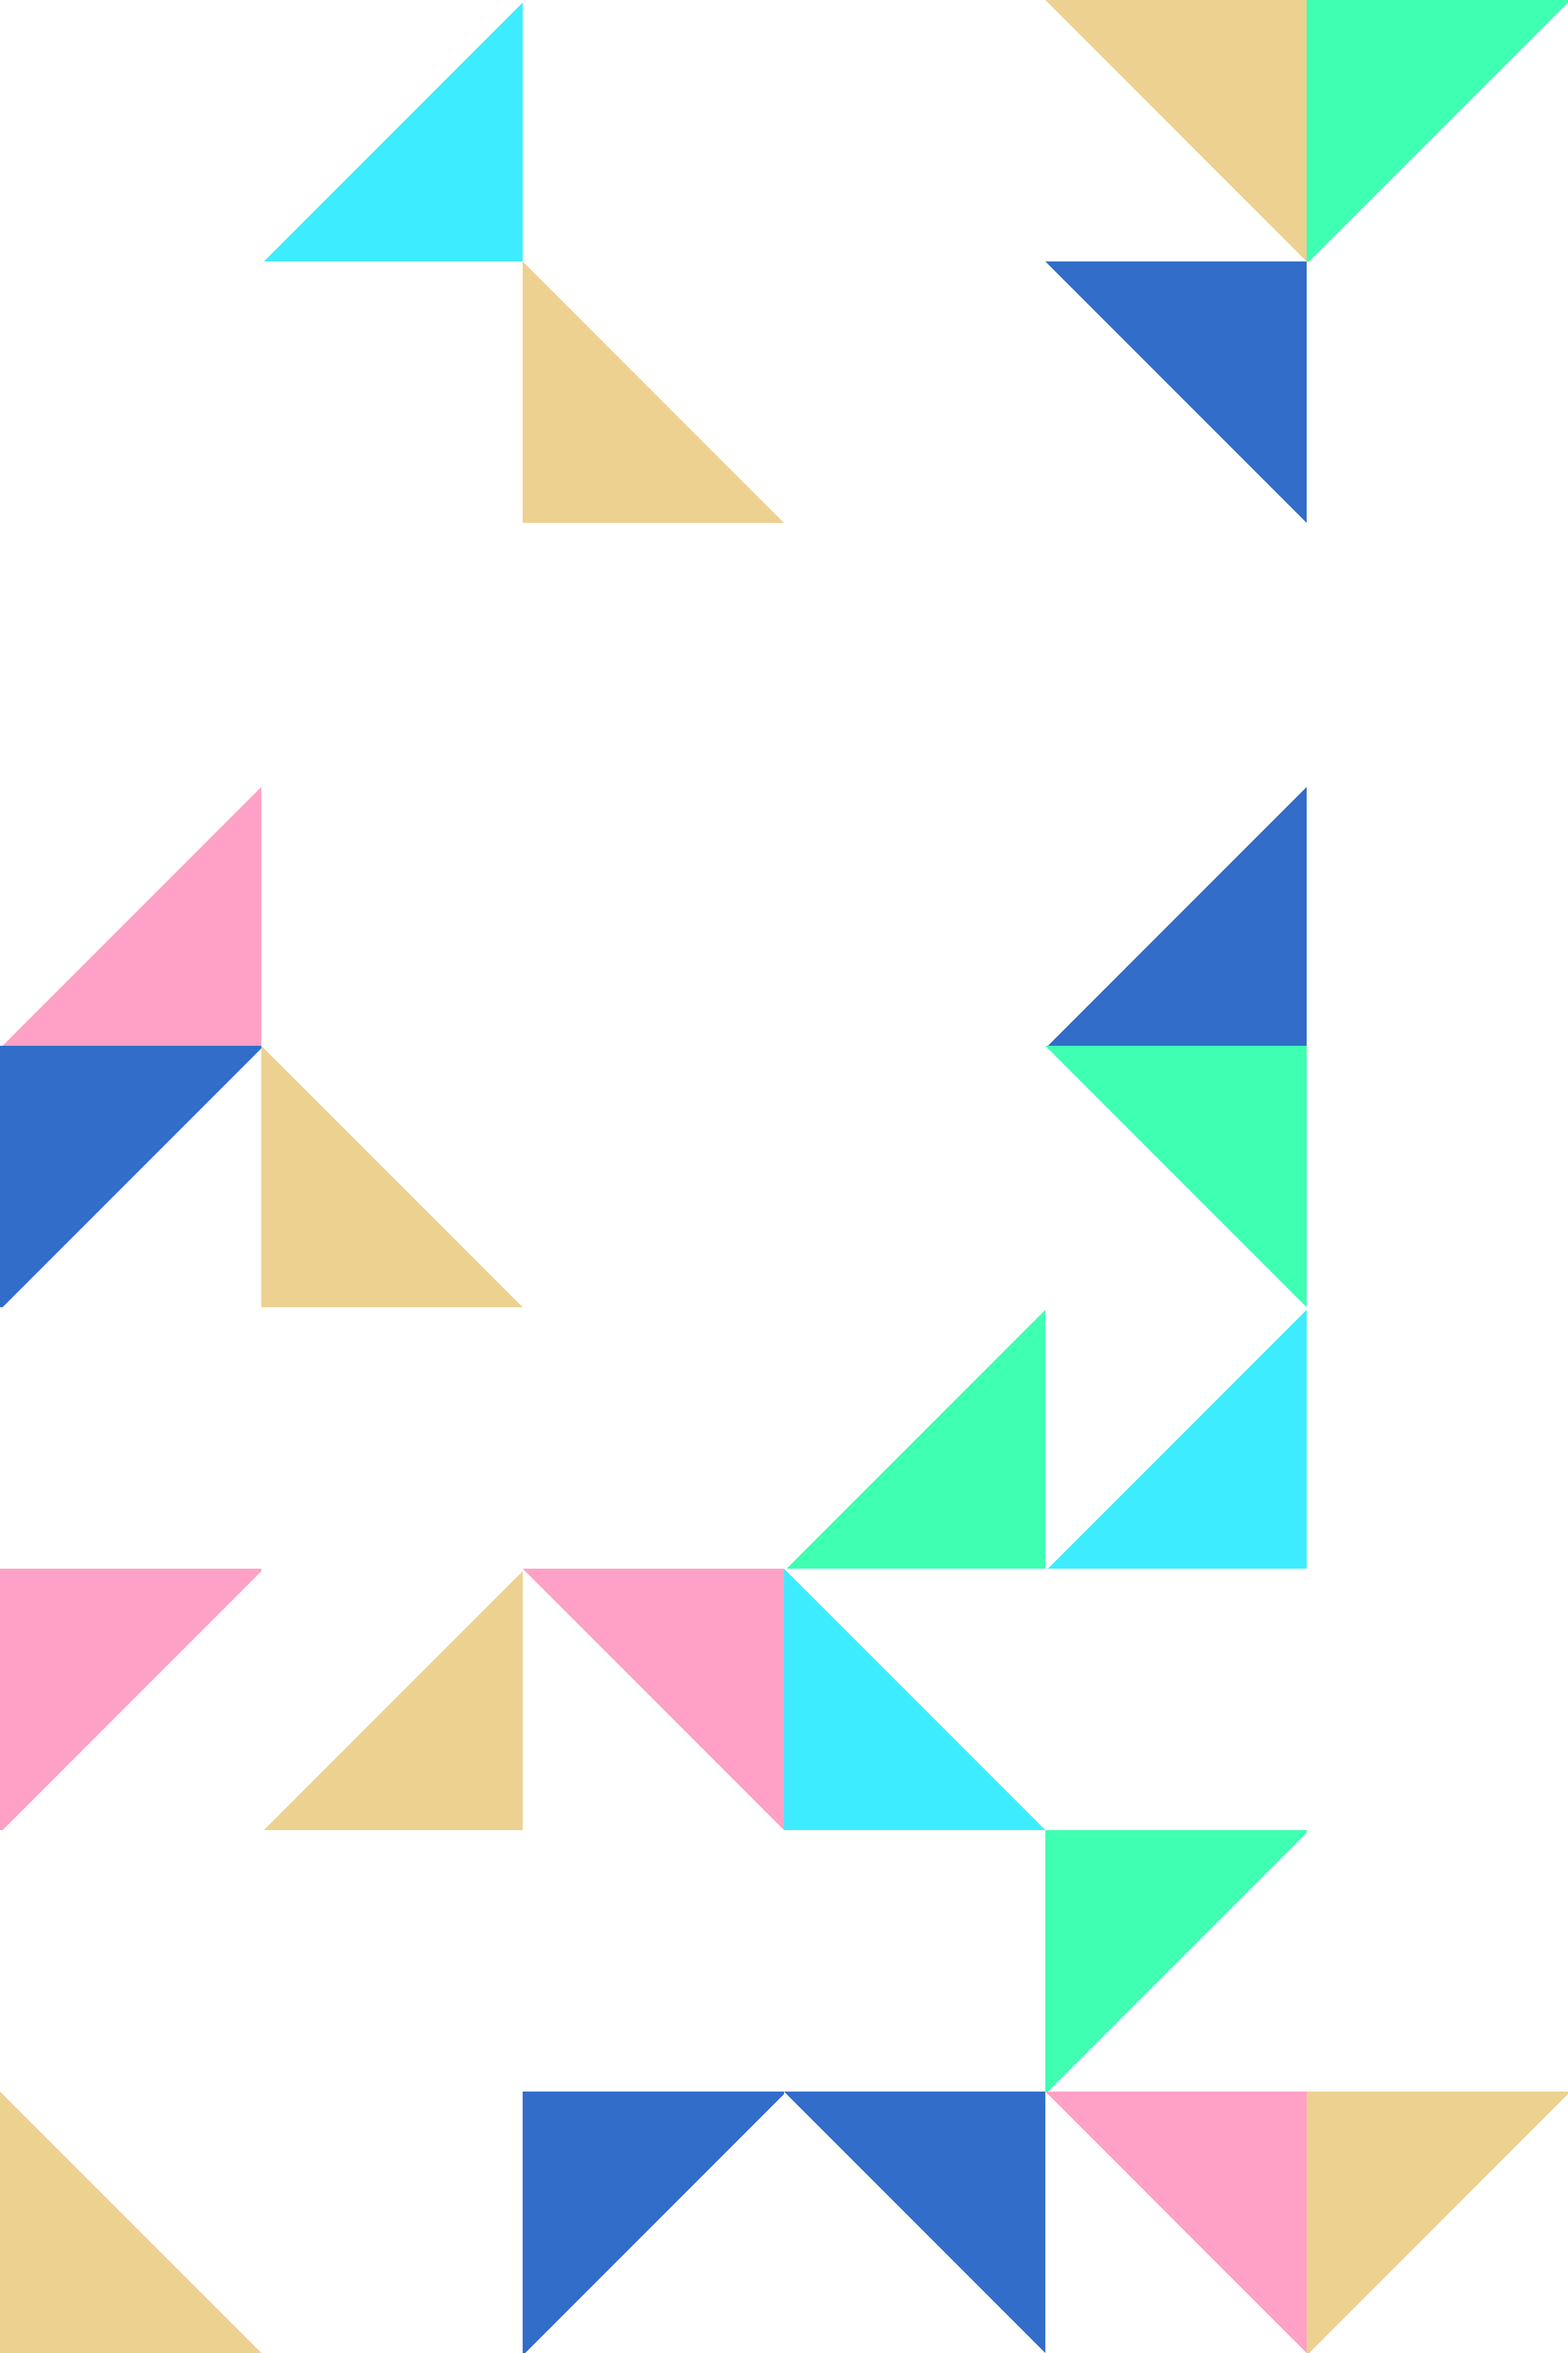
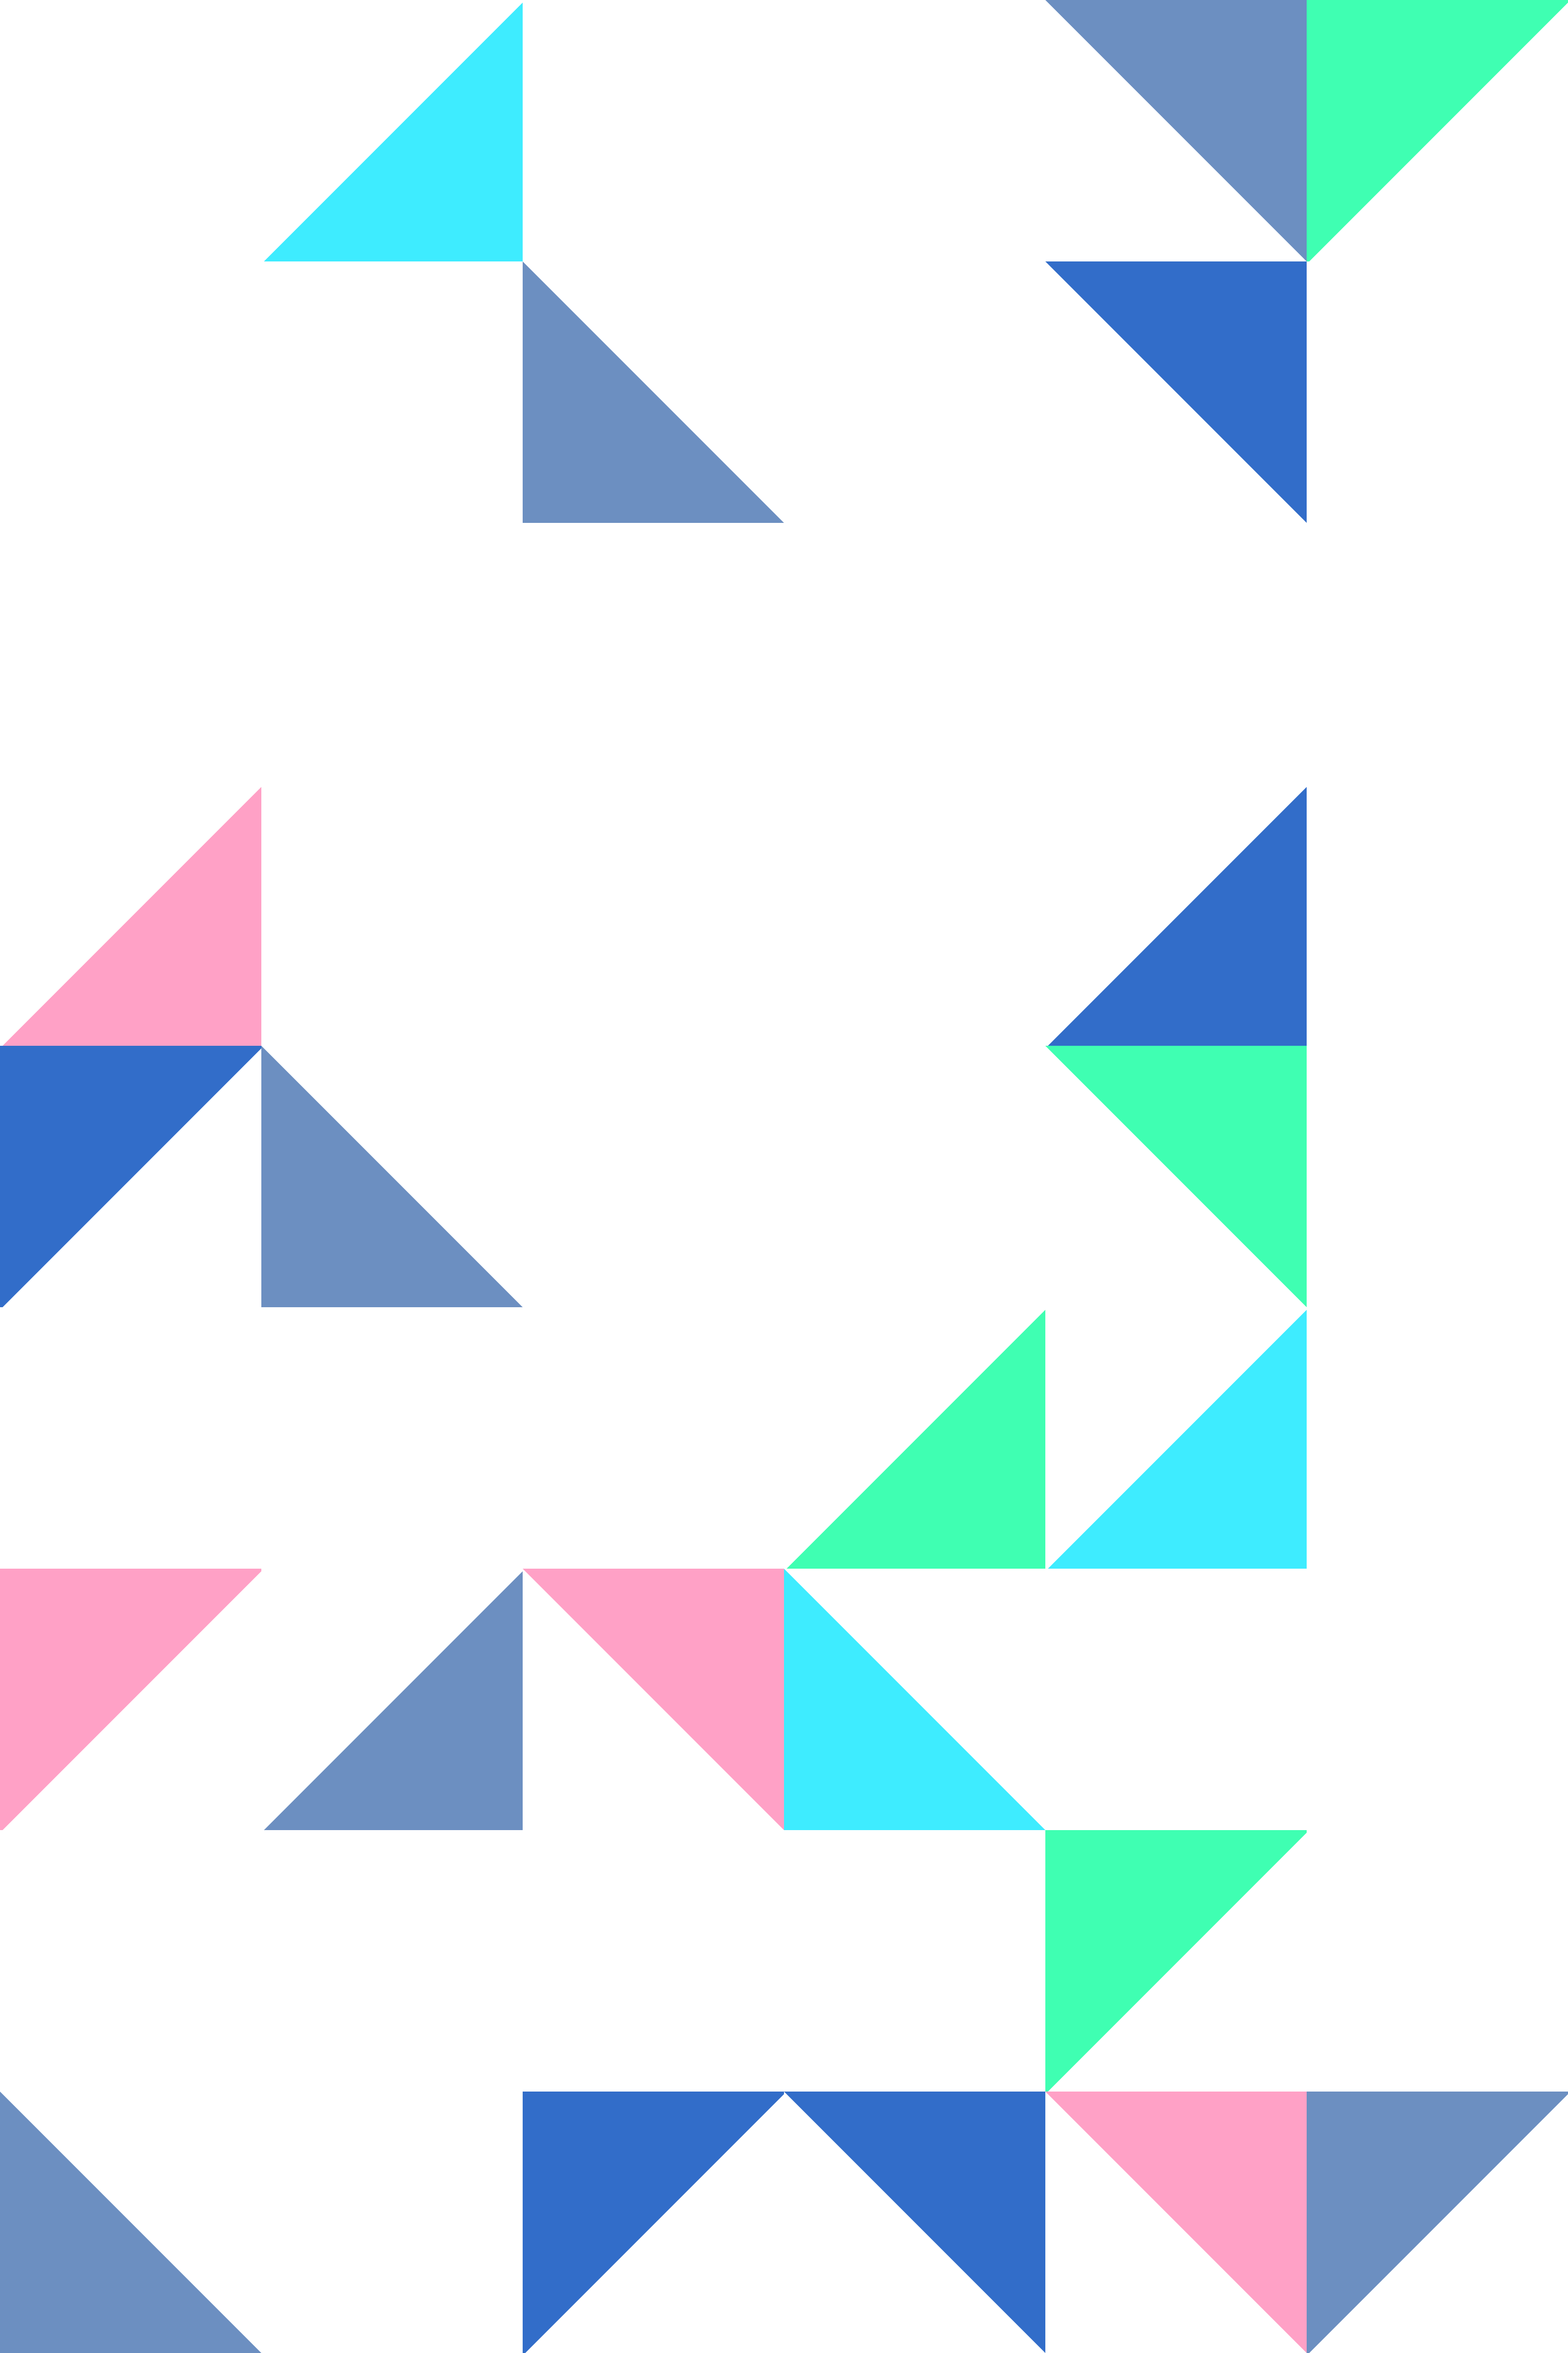
Update theme

diff --git a/style.css b/style.css
@@ -5,22 +5,25 @@
     --primary: #e1e1e1;
     --secondary: #555555;
     --accent: lightblue;
-    --project-background: rgba(255, 255, 255, 0.1);
-    --footer-background: rgba(255, 255, 255, 0.3);
+    --light-background: rgba(255, 255, 255, 0.1);
+    --dark-background: rgba(255, 255, 255, 0.3);
     --shadow: rgba(0, 0, 0, 0.2);
+}
 
-    /*--primary: #162447;*/
-    /*--secondary: #DBCBBD;*/
-    /*--accent: #1414a4;*/
-    /*--light-background: rgba(0, 0, 0, 0.1);*/
-    /*--dark-background: rgba(0, 0, 0, 0.3);*/
-    /*--shadow: rgba(255, 255, 255, 0.2);*/
+.dark-theme {
+    --primary: #162447;
+    --secondary: #DBCBBD;
+    --accent: #1414a4;
+    --light-background: rgba(0, 0, 0, 0.1);
+    --dark-background: rgba(0, 0, 0, 0.3);
+    --shadow: rgba(255, 255, 255, 0.2);
 }
 
 * {
     margin: 0;
     padding: 0;
     box-sizing: border-box;
+    transition: 500ms ease-in-out;
 }
 
 body {

diff --git a/src/service/ThemeSwitcherService.ts b/src/service/ThemeSwitcherService.ts
@@ -1,0 +1,37 @@
+import {createSignal} from "solid-js";
+
+enum Theme {
+    LIGHT,
+    DARK
+}
+
+const [theme, setTheme] = createSignal<Theme>(Theme.LIGHT);
+const bodyClassList = document.body.classList;
+const darkThemeClass = 'dark-theme';
+
+function setLightTheme() {
+    if (bodyClassList.contains(darkThemeClass)) {
+        bodyClassList.remove(darkThemeClass)
+    }
+}
+
+function setDarkTheme() {
+    bodyClassList.add(darkThemeClass);
+}
+
+function changeAppTheme() {
+    setTheme((value) => {
+        switch (value) {
+            case Theme.LIGHT: {
+                setDarkTheme()
+                return Theme.DARK;
+            }
+            case Theme.DARK: {
+                setLightTheme();
+                return Theme.LIGHT;
+            }
+        }
+    })
+}
+
+export {changeAppTheme};

diff --git a/src/components/theme-switcher/ThemeSwitcher.tsx b/src/components/theme-switcher/ThemeSwitcher.tsx
@@ -1,12 +1,13 @@
 import "./ThemeSwitcher.scss";
 import {createSignal} from "solid-js";
+import {changeAppTheme} from "../../service/ThemeSwitcherService";
 
 export default function ThemeSwitcher() {
     const [angle, setAngle] = createSignal<number>(0);
 
     function changeTheme() {
         setAngle((value) => (value + 0.18));
-        console.log(angle());
+        changeAppTheme();
     }
 
     return (

diff --git a/src/components/theme-switcher/ThemeSwitcher.scss b/src/components/theme-switcher/ThemeSwitcher.scss
@@ -6,6 +6,10 @@
   top: clamp(-4rem, -5vw, -2rem);
   border-radius: 50%;
   transition: 1s ease-in-out;
+  background: var(--dark-background);
+  box-shadow: var(--shadow);
+  backdrop-filter: blur(15px);
+  border: 2px dashed var(--accent);
 
   .theme {
     font-size: clamp(1.5rem, 3vw, 4rem);

diff --git a/src/pages/home/Home.scss b/src/pages/home/Home.scss
@@ -3,6 +3,6 @@
   display: flex;
   flex-direction: column;
   background-image: url("../../assets/background.png");
-  background-position: center;
-  background-size: 50vw;
+  background-position: bottom;
+  background-size: 60vw;
 }
